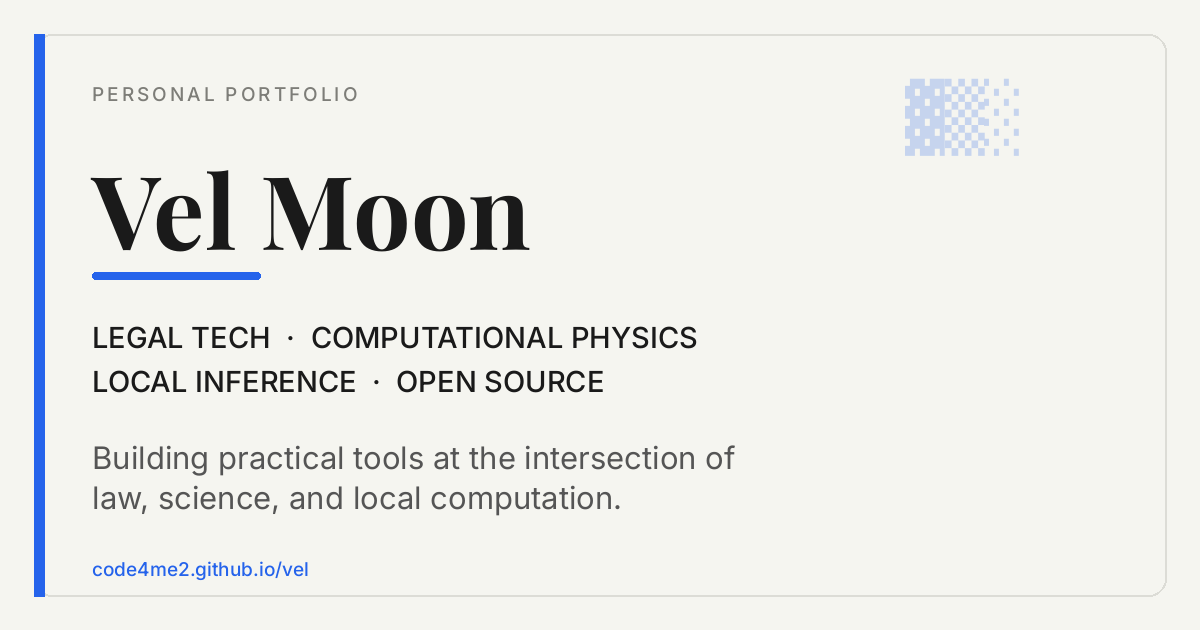
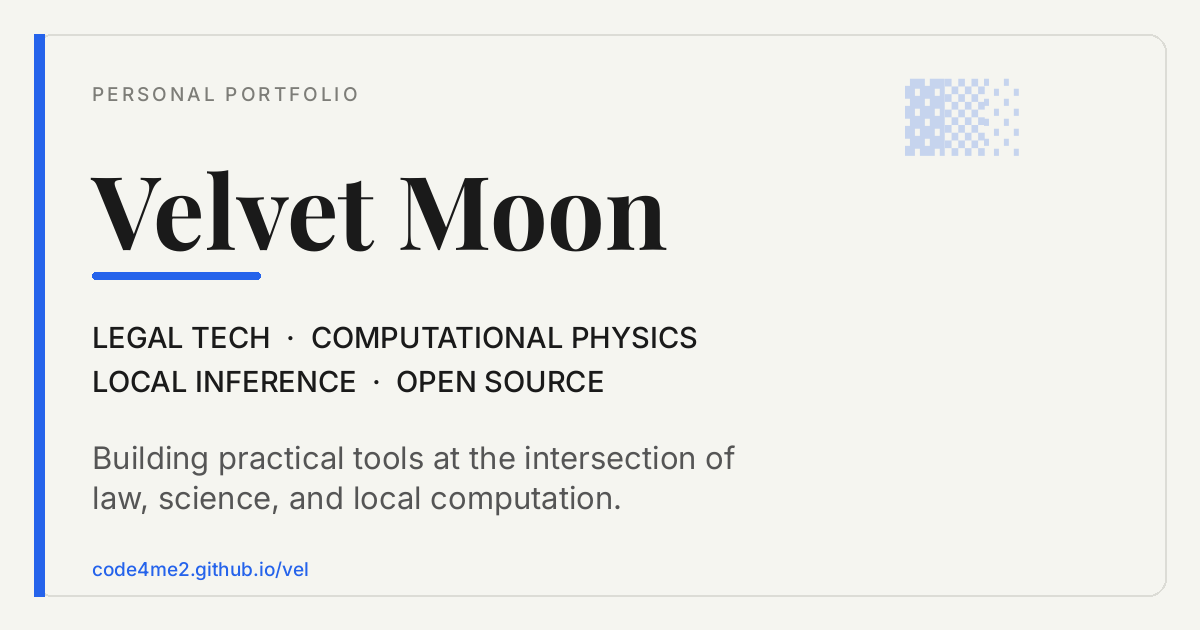
Use full Velvet Moon name

Changed region(s): [[0.185, 0.2714, 0.555, 0.4222]]

diff --git a/index.html b/index.html
@@ -3,26 +3,26 @@
 <head>
     <meta charset="UTF-8">
     <meta name="viewport" content="width=device-width, initial-scale=1.0">
-    <title>Vel Moon — Legal Tech · Computational Physics · Local Inference</title>
-    <meta name="description" content="Vel Moon builds practical tools at the intersection of law and computational physics. Contributor to vLLM and Ollama.">
+    <title>Velvet Moon — Legal Tech · Computational Physics · Local Inference</title>
+    <meta name="description" content="Velvet Moon builds practical tools at the intersection of law and computational physics. Contributor to vLLM and Ollama.">
     <link rel="icon" href="favicon.svg" type="image/svg+xml">
     <link rel="canonical" href="https://code4me2.github.io/vel/">
     <!-- Open Graph -->
     <meta property="og:type" content="website">
     <meta property="og:url" content="https://code4me2.github.io/vel/">
-    <meta property="og:title" content="Vel Moon — Legal Tech · Computational Physics · Local Inference">
+    <meta property="og:title" content="Velvet Moon — Legal Tech · Computational Physics · Local Inference">
     <meta property="og:description" content="Building practical tools at the intersection of law and computational physics. Contributor to major local inference frameworks.">
     <meta property="og:image" content="https://code4me2.github.io/vel/og-preview.png">
     <meta property="og:image:type" content="image/png">
     <meta property="og:image:width" content="1200">
     <meta property="og:image:height" content="630">
-    <meta property="og:image:alt" content="Vel Moon — Legal Tech, Computational Physics, and Local Inference">
+    <meta property="og:image:alt" content="Velvet Moon — Legal Tech, Computational Physics, and Local Inference">
     <!-- Twitter -->
     <meta name="twitter:card" content="summary_large_image">
-    <meta name="twitter:title" content="Vel Moon — Legal Tech · Computational Physics · Local Inference">
+    <meta name="twitter:title" content="Velvet Moon — Legal Tech · Computational Physics · Local Inference">
     <meta name="twitter:description" content="Building practical tools at the intersection of law and computational physics. Contributor to major local inference frameworks.">
     <meta name="twitter:image" content="https://code4me2.github.io/vel/og-preview.png">
-    <meta name="twitter:image:alt" content="Vel Moon — Legal Tech, Computational Physics, and Local Inference">
+    <meta name="twitter:image:alt" content="Velvet Moon — Legal Tech, Computational Physics, and Local Inference">
     <link rel="preconnect" href="https://fonts.googleapis.com">
     <link rel="preconnect" href="https://fonts.gstatic.com" crossorigin>
     <link href="https://fonts.googleapis.com/css2?family=Playfair+Display:ital,wght@0,400;0,700;0,900;1,400&family=Inter:wght@400;500;600&family=JetBrains+Mono:wght@400;500&display=swap" rel="stylesheet">
@@ -59,7 +59,7 @@
     <div class="wrapper">
         <!-- Header spans full width -->
         <header>
-            <h1>Vel Moon</h1>
+            <h1>Velvet Moon</h1>
             <p class="tagline">Legal Tech · Computational Physics · Local Inference</p>
         </header>
 

diff --git a/README.md b/README.md
@@ -1,6 +1,6 @@
 # vel
 
-Personal website for Vel Moon, published as a static GitHub Pages site.
+Personal website for Velvet Moon, published as a static GitHub Pages site.
 
 ## Local preview
 
